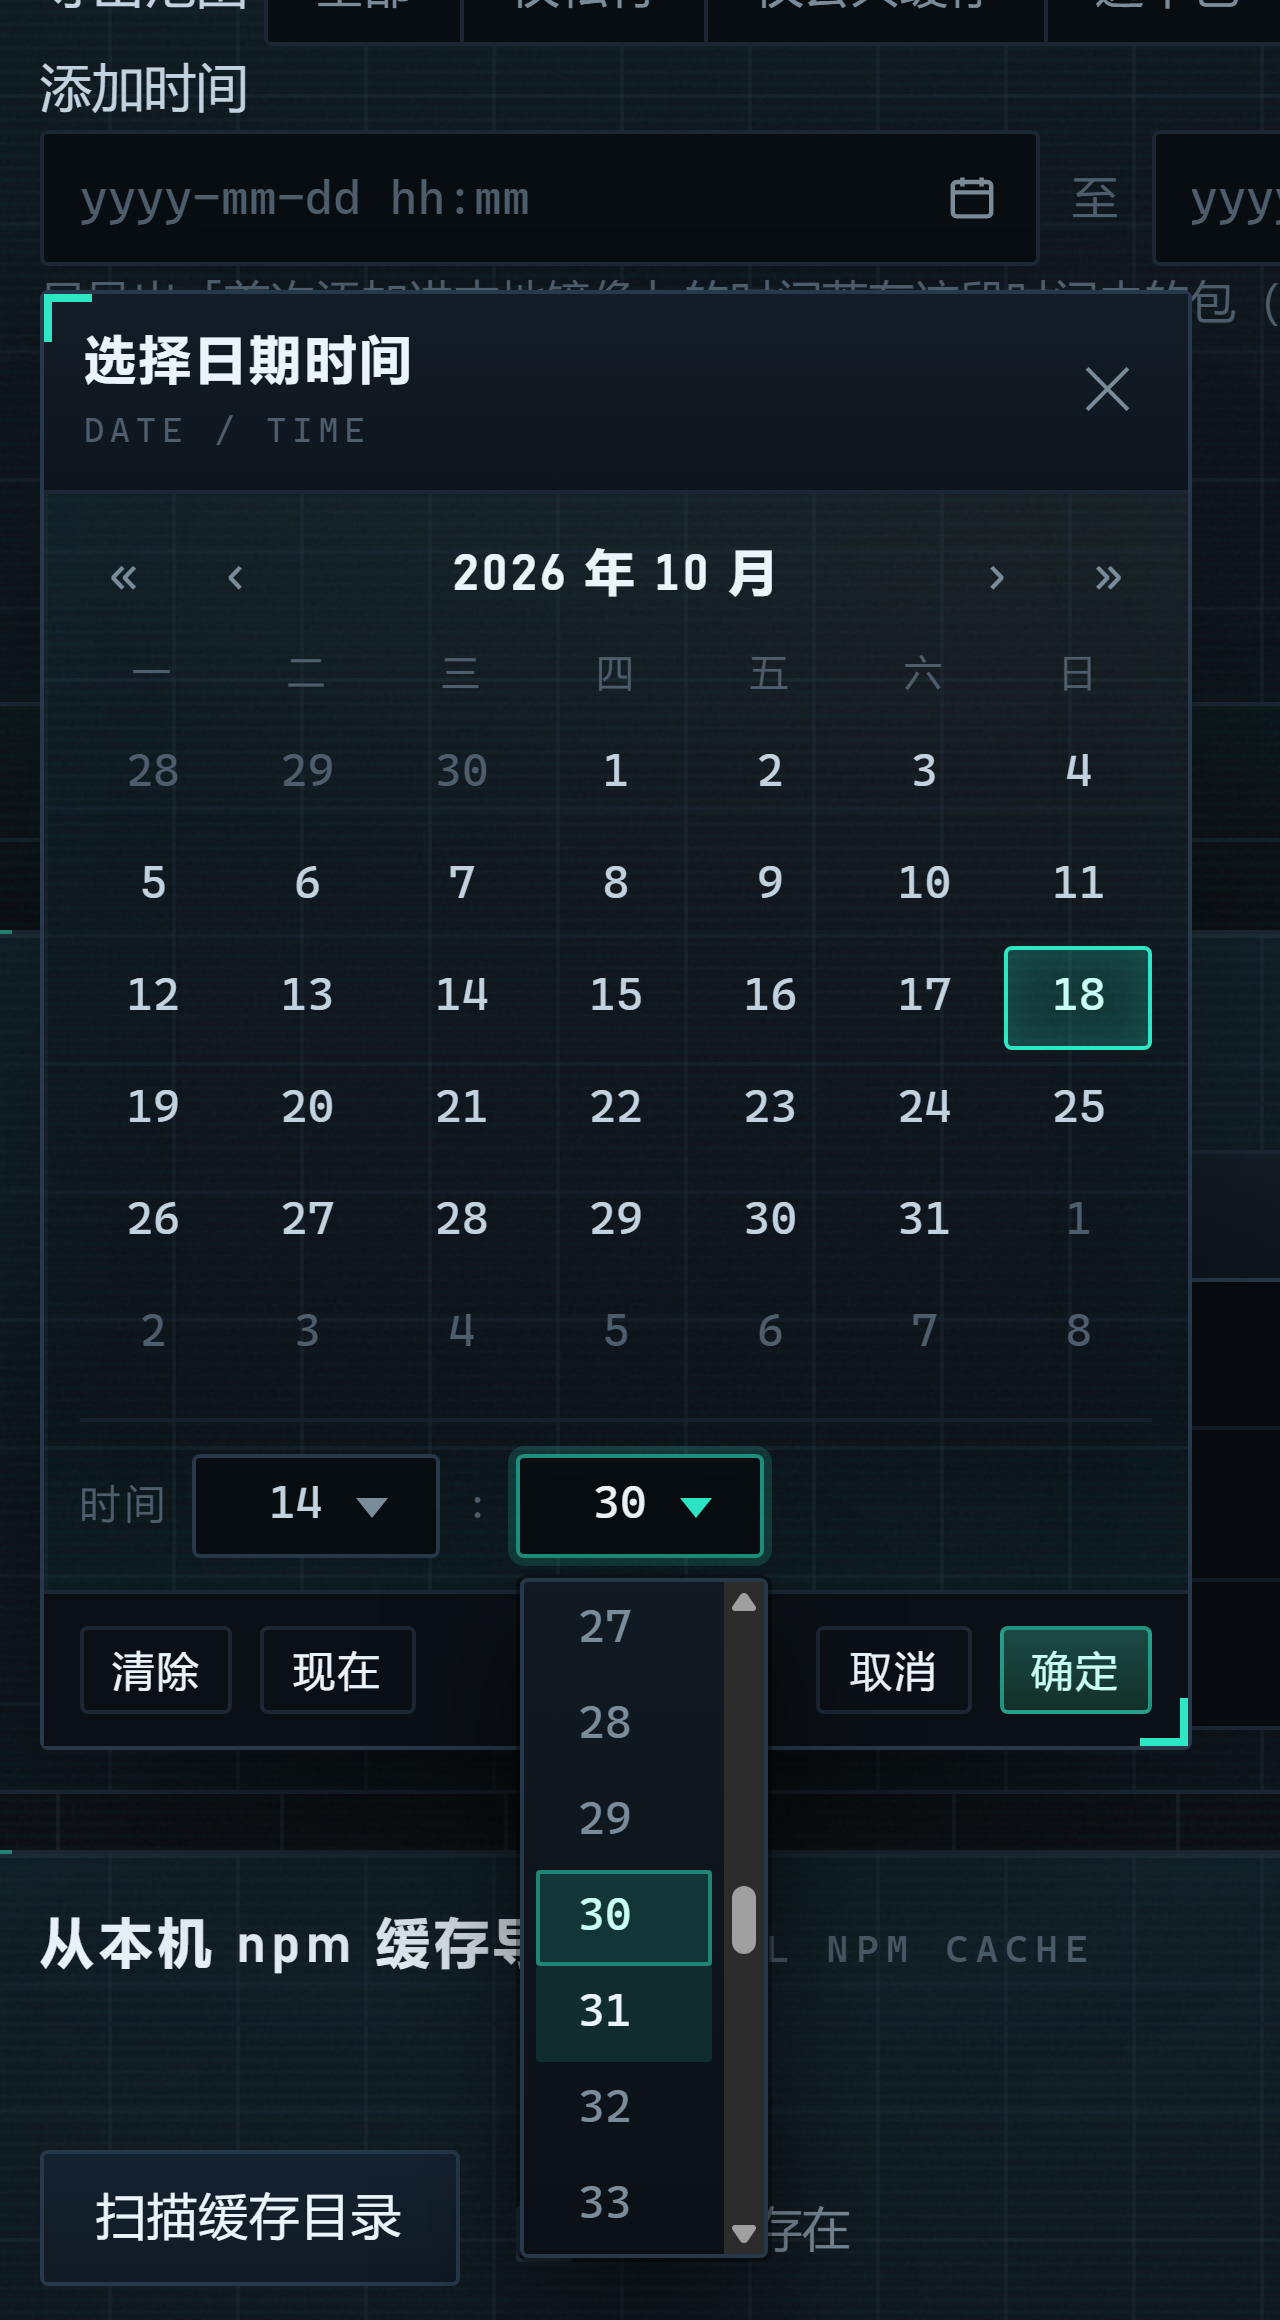
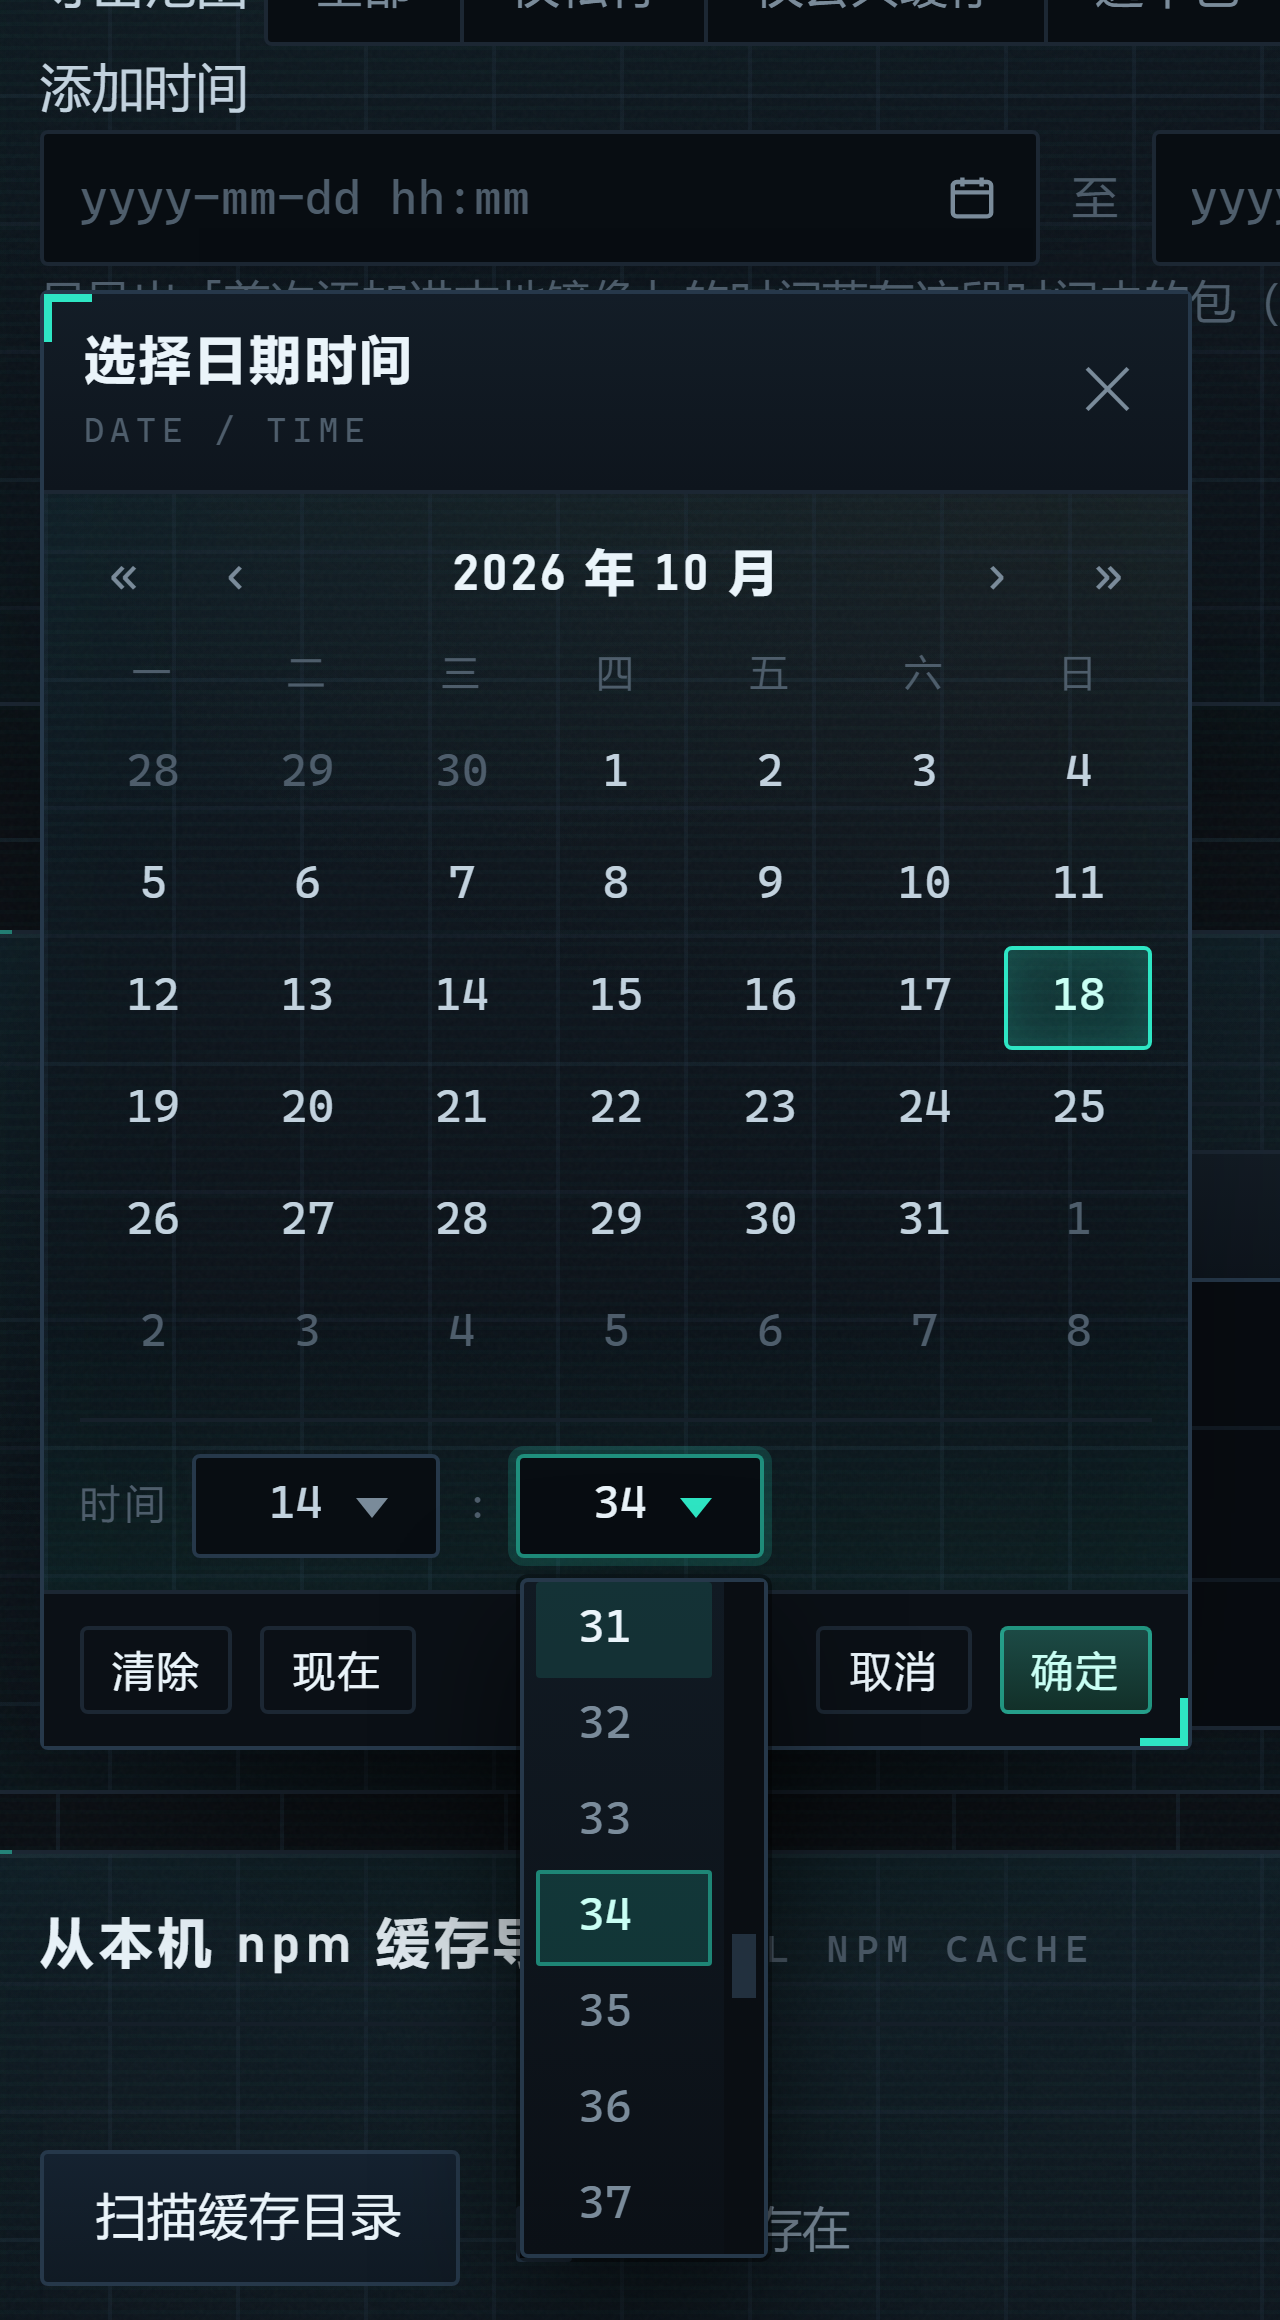
fix(ui): 时分下拉滚动条沿用项目全局样式
去掉 .dt-menu 自己的细滚动条覆盖（6px/透明轨道/圆角滑块），改为继承项目全局 ::-webkit-scrollbar：10px 深色轨道 + #22303e 方块滑块（2px 深色描边）、悬停变亮，与日志/弹窗等滚动区域一致。ui-check 138/138。

Changed region(s): [[0.4062, 0.6828, 0.5938, 0.9931], [0.4375, 0.6828, 0.5, 0.7448]]

diff --git a/public/style.css b/public/style.css
@@ -464,12 +464,7 @@ input.dt-input.is-empty{color:var(--txt-faint)}
   padding:3px;background:linear-gradient(180deg,#111a23,#0b1016);
   border:1px solid var(--line-2);border-radius:var(--r);
   box-shadow:0 12px 32px rgba(0,0,0,.55),0 0 0 1px rgba(0,0,0,.35);
-  scrollbar-width:thin;
 }
-.dt-menu::-webkit-scrollbar{width:6px}
-.dt-menu::-webkit-scrollbar-track{background:transparent}
-.dt-menu::-webkit-scrollbar-thumb{background:#22303e;border:1px solid #0b1016;border-radius:3px}
-.dt-menu::-webkit-scrollbar-thumb:hover{background:var(--line-3)}
 .dt-menu[hidden]{display:none!important}
 .dt-opt{
   display:block;width:100%;height:24px;padding:0 9px;text-align:left;

diff --git a/test/ui-check.js b/test/ui-check.js
@@ -675,6 +675,9 @@ async function get(p, { json = false } = {}) {
         && /\.dt-sel\{[\s\S]*?width:62px;height:26px;/.test(cssAdd)
         && /\.dt-menu\{[\s\S]*?position:absolute;z-index:8700/.test(cssAdd)
         && /\.dt-opt\.is-sel\{background:rgba\(46,230,196,\.16\)/.test(cssAdd)
+        && !/\.dt-menu::-webkit-scrollbar/.test(cssAdd)
+        && /\.dt-menu\{[\s\S]*?box-shadow:0 12px 32px/.test(cssAdd)
+        && /::-webkit-scrollbar\{width:10px;height:10px\}/.test(cssAdd)
         && !/dt-time select\{/.test(cssAdd)
         && /\.dt-foot\{display:flex;align-items:center;gap:7px/.test(cssAdd)
         && /class: 'modal dt-pop'/.test(jsAdd)

diff --git a/报告.md b/报告.md
@@ -928,8 +928,8 @@ pwsh test/acceptance-npm.ps1 →  16/16 通过
 | 用户要求 | ①「进度弹窗 点击“取消”后，等待“取消完成”的这段时间，“取消按钮”应禁用置灰，防止再点。如果“取消失败”，再取消按钮的禁用效果 不再禁用。」②「导出备份时，应增加 导出某个时间段之间添加至本地镜像的包，功能的名称你自己定。」 |
 | 功能① | 新增 `requestTaskCancel(btn, taskId, opts)`（`public/app.js`）：点击取消立即 `disabled` + `is-busy` + `aria-disabled` + 文案「正在取消…」，成功时保持禁用等任务收尾并提示「已请求停止：当前包处理完就停」；请求失败则去掉禁用、还原文案并提示「取消失败：原因」。四个取消入口（补 tarball、递归加依赖、本机缓存导入、导出/导入进度弹窗）统一走这一套 |
 | 功能② | 导出范围新增「**按添加时间**」（`scope=added`）：`public/index.html` 加分段按钮与 `#exp-added-row`（两个只读时间输入框，点击弹出项目风格日历弹层，留空一端表示不限），`public/app.js` 负责校验与 `addedFrom/addedTo` ISO 参数，后端 `src/bundle.js` 用 `store` 的 `meta.createdAt`（首次添加进本地镜像的时间）闭区间筛选，清单写 `addedTimeRange`；`src/api.js` 对非法/空范围返回 400 `EBADTIME`；`cli.js` 支持 `--scope added --from/--to` |
-| 样式 | 原生 `datetime-local` 的日历弹窗由浏览器内部绘制、改不了样式，改为**自绘日期时间选择器**：`public/app.js` 新增 `dateTimePicker(input)`——只读输入框（值显示 `YYYY-MM-DD HH:mm`，ISO 存 `input.__dtIso`，等宽字体 + 日历图标），点击弹出 `.modal.dt-pop` 浮层（深色渐变面板、青色角标、`decorateFx` 背景动效、`--disp` 标题 + mono 副标题，沿用项目弹窗/按钮风格）；弹层内是周一开头的月历（42 格，含「其他月 / 今天 / 选中」三态、`« ‹ › »` 翻页）、**时/分自绘下拉**（原生 `<select>` 展开后的系统列表是黑底 + 白色选中块，同样对不上项目风格，所以自己画：`.dt-sel` 按钮 + `.dt-menu` 深色下拉面板，悬停青色淡底、选中项青色高亮，滚动时选中项自动滚到可视区）、底部「清除 / 现在 / 取消 / 确定」；点弹层外、Esc、滚动或缩放自动关闭，定位在输入框下方、放不下翻到上方 |
-| 实测 | 真机打开弹层：宽 288px、42 个日期格、24 个时选项、60 个分选项、背景动效层存在；选「2026-10-17 00:00 / 2026-10-18 23:59」后输入框显示 `2026-10-17 00:00 ~ 2026-10-18 23:59`（截图 [截图/导出-按添加时间-日历弹窗.png](截图/导出-按添加时间-日历弹窗.png)）；**时/分自绘下拉**实测：小时 24 项、分钟 60 项，下拉宽 62px、最高 170px，当前选中项自动滚到可视区并青色高亮，悬停项青色淡底（截图 [截图/导出-按添加时间-时间下拉.png](截图/导出-按添加时间-时间下拉.png)），在菜单里滚动不会关掉弹层，点菜单外/点空白处弹层与菜单一起关闭；选「14:55」后输入框写回 `2026-10-18 14:55`；「清除」置空并回到占位色、「现在」填当前时间；空区间导出弹窗显示「所选时间段内没有添加进本地镜像的包…」（截图 [截图/导出-按添加时间-空范围.png](截图/导出-按添加时间-空范围.png)），未生成半成品文件；点「取消导出」后按钮即时置灰为「正在取消…」且点击无效，任务被取消 |
+| 样式 | 原生 `datetime-local` 的日历弹窗由浏览器内部绘制、改不了样式，改为**自绘日期时间选择器**：`public/app.js` 新增 `dateTimePicker(input)`——只读输入框（值显示 `YYYY-MM-DD HH:mm`，ISO 存 `input.__dtIso`，等宽字体 + 日历图标），点击弹出 `.modal.dt-pop` 浮层（深色渐变面板、青色角标、`decorateFx` 背景动效、`--disp` 标题 + mono 副标题，沿用项目弹窗/按钮风格）；弹层内是周一开头的月历（42 格，含「其他月 / 今天 / 选中」三态、`« ‹ › »` 翻页）、**时/分自绘下拉**（原生 `<select>` 展开后的系统列表是黑底 + 白色选中块，同样对不上项目风格，所以自己画：`.dt-sel` 按钮 + `.dt-menu` 深色下拉面板，悬停青色淡底、选中项青色高亮，滚动时选中项自动滚到可视区；滚动条不单独覆盖，沿用项目全局样式——10px 深色轨道 + 方块滑块 + 悬停变亮，和日志/弹窗里的滚动条一致）、底部「清除 / 现在 / 取消 / 确定」；点弹层外、Esc、滚动或缩放自动关闭，定位在输入框下方、放不下翻到上方 |
+| 实测 | 真机打开弹层：宽 288px、42 个日期格、24 个时选项、60 个分选项、背景动效层存在；选「2026-10-17 00:00 / 2026-10-18 23:59」后输入框显示 `2026-10-17 00:00 ~ 2026-10-18 23:59`（截图 [截图/导出-按添加时间-日历弹窗.png](截图/导出-按添加时间-日历弹窗.png)）；**时/分自绘下拉**实测：小时 24 项、分钟 60 项，下拉按钮宽 62px、面板最高 170px，当前选中项自动滚到可视区并青色高亮，悬停项青色淡底，滚动条沿用项目全局深色样式（10px 深色轨道 + 方块滑块 + 悬停变亮）（截图 [截图/导出-按添加时间-时间下拉.png](截图/导出-按添加时间-时间下拉.png)），在菜单里滚动不会关掉弹层，点菜单外/点空白处弹层与菜单一起关闭；选「14:55」后输入框写回 `2026-10-18 14:55`；「清除」置空并回到占位色、「现在」填当前时间；空区间导出弹窗显示「所选时间段内没有添加进本地镜像的包…」（截图 [截图/导出-按添加时间-空范围.png](截图/导出-按添加时间-空范围.png)），未生成半成品文件；点「取消导出」后按钮即时置灰为「正在取消…」且点击无效，任务被取消 |
 | 测试 | `test/ui-check.js` **138/138 通过**（新增 7 项）、`test/api-test.js` **235/241 通过、跳过 6 项、0 失败**（新增 10 项；上游可达时 239/244）；本次只改前端，api-test 未重跑 |
 | 截图 | [截图/导出-按添加时间.png](截图/导出-按添加时间.png)、[截图/导出-按添加时间-日历弹窗.png](截图/导出-按添加时间-日历弹窗.png)、[截图/导出-按添加时间-时间下拉.png](截图/导出-按添加时间-时间下拉.png)、[截图/导出-按添加时间-空范围.png](截图/导出-按添加时间-空范围.png) |
 
